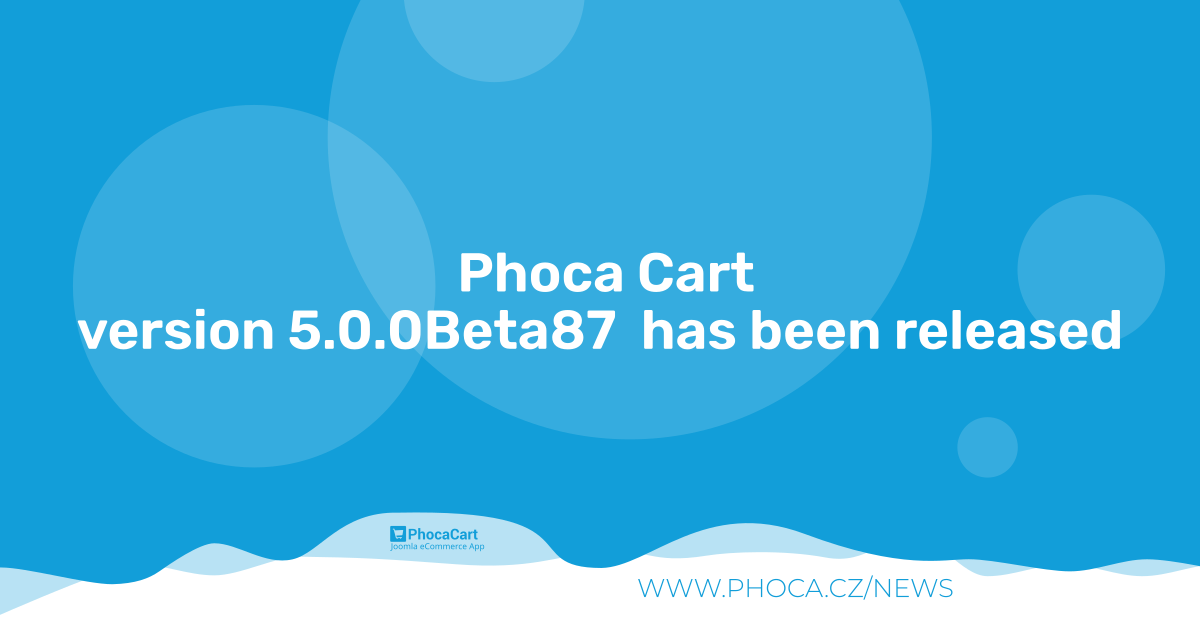
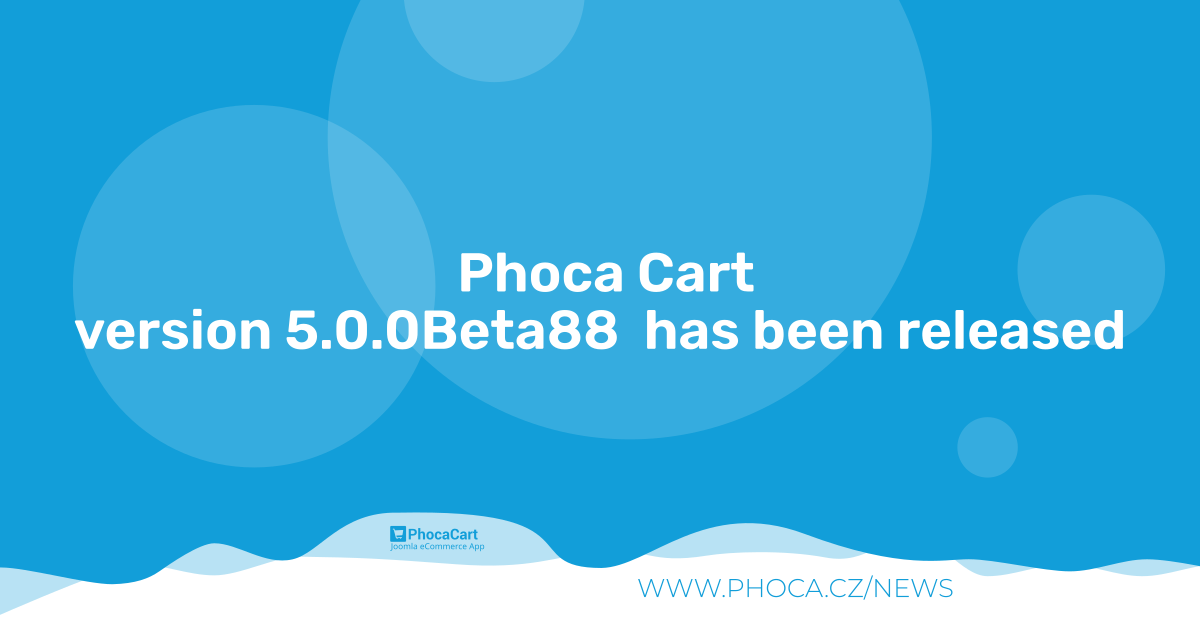
5.0.0Beta88

Changed region(s): [[0.0617, 0.4825, 0.9558, 0.573]]

diff --git a/media/css/main.css b/media/css/main.css
@@ -2513,7 +2513,12 @@ form.ph-form-placeholder input.form-control:focus,
     box-shadow: 0px 0px 0px 2px transparent;
 }
 
-/* .ph-form-input-box input:not(:focus):valid ~ label */
+/* For pasting values with doubleclick, mouse wheel click, etc:
+.ph-form-input-box input:not(:placeholder-shown) ~ label,
+ - in this case the html needs to include e.g. placeholder=" "
+*/
+
+/*.ph-form-input-box input:not(:focus):valid ~ label,*/
 .ph-form-input-box select ~ label,
 .ph-form-input-box input.form-control:focus ~ label,
 .ph-form-input-box input.form-control:not([value='']) ~ label {

diff --git a/admin/models/phocacartitem.php b/admin/models/phocacartitem.php
@@ -381,26 +381,28 @@ class PhocaCartCpModelPhocaCartItem extends AdminModel
 		$user = Factory::getUser();
 
 		// ALIAS
+
 		if (in_array($input->get('task'), array('apply', 'save', 'save2new')) && (!isset($data['id']) || (int) $data['id'] == 0)) {
+
 			if ($data['alias'] == null) {
-				if (Factory::getConfig()->get('unicodeslugs') == 1) {
-					$data['alias'] = OutputFilter::stringURLUnicodeSlug($data['title']);
-				} else {
-					$data['alias'] = OutputFilter::stringURLSafe($data['title']);
-				}
+                if (Factory::getConfig()->get('unicodeslugs') == 1) {
+                    $data['alias'] = OutputFilter::stringURLUnicodeSlug($data['title']);
+                } else {
+                    $data['alias'] = OutputFilter::stringURLSafe($data['title']);
+                }
+            }
 
+            if ($table->load(array('alias' => $data['alias']))){
+                $msg = Text::_('COM_PHOCACART_SAVE_WARNING');
+            }
 
-				if ($table->load(array('alias' => $data['alias']))){
-					$msg = Text::_('COM_PHOCACART_SAVE_WARNING');
-				}
+            list($title, $alias) = $this->generateNewTitle(0, $data['alias'], $data['title']);
+            $data['alias'] = $alias;
 
-				list($title, $alias) = $this->generateNewTitle(0, $data['alias'], $data['title']);
-				$data['alias'] = $alias;
+            if (isset($msg)) {
+                Factory::getApplication()->enqueueMessage($msg, 'warning');
+            }
 
-				if (isset($msg)) {
-					Factory::getApplication()->enqueueMessage($msg, 'warning');
-				}
-			}
 		} else if ($table->load(array('alias' => $data['alias'])) && ($table->getId() != $data['id'] || $data['id'] == 0)) {
 			$this->setError(Text::_('COM_PHOCACART_ERROR_ITEM_UNIQUE_ALIAS'));
 			return false;

diff --git a/admin/models/phocacartcategory.php b/admin/models/phocacartcategory.php
@@ -190,18 +190,18 @@ class PhocaCartCpModelPhocacartCategory extends AdminModel
 		// ALIAS
 		if (in_array($input->get('task'), array('apply', 'save', 'save2new')) && (!isset($data['id']) || (int) $data['id'] == 0)) {
 			if ($data['alias'] == null) {
-				if (Factory::getConfig()->get('unicodeslugs') == 1) {
-					$data['alias'] = OutputFilter::stringURLUnicodeSlug($data['title']);
-				} else {
-					$data['alias'] = OutputFilter::stringURLSafe($data['title']);
-				}
+                if (Factory::getConfig()->get('unicodeslugs') == 1) {
+                    $data['alias'] = OutputFilter::stringURLUnicodeSlug($data['title']);
+                } else {
+                    $data['alias'] = OutputFilter::stringURLSafe($data['title']);
+                }
+            }
+            list($title, $alias) = $this->generateNewTitle($data['parent_id'], $data['alias'], $data['title']);
+            if ($data['alias'] != $alias) {
+                Factory::getApplication()->enqueueMessage(Text::_('COM_PHOCACART_SAVE_WARNING'), 'warning');
+                $data['alias'] = $alias;
+            }
 
-				list($title, $alias) = $this->generateNewTitle($data['parent_id'], $data['alias'], $data['title']);
-				if ($data['alias'] != $alias) {
-					Factory::getApplication()->enqueueMessage(Text::_('COM_PHOCACART_SAVE_WARNING'), 'warning');
-					$data['alias'] = $alias;
-				}
-			}
 		} else if ($table->load(array('alias' => $data['alias'], 'parent_id' => $data['parent_id'])) && ($table->id != $data['id'] || $data['id'] == 0)) {
 			$this->setError(Text::_('COM_PHOCACART_ERROR_ITEM_UNIQUE_ALIAS'));
 			return false;

diff --git a/admin/models/phocacartsubmititem.php b/admin/models/phocacartsubmititem.php
@@ -228,19 +228,19 @@ class PhocaCartCpModelPhocaCartSubmititem extends AdminModel
 				} else {
 					$data['alias'] = OutputFilter::stringURLSafe($data['title']);
 				}
-
-
-				if ($table->load(array('alias' => $data['alias']))){
-					$msg = Text::_('COM_PHOCACART_SAVE_WARNING');
-				}
-
-				list($title, $alias) = $this->generateNewTitle(0, $data['alias'], $data['title']);
-				$data['alias'] = $alias;
-
-				if (isset($msg)) {
-					Factory::getApplication()->enqueueMessage($msg, 'warning');
-				}
 			}
+
+			if ($table->load(array('alias' => $data['alias']))){
+				$msg = Text::_('COM_PHOCACART_SAVE_WARNING');
+			}
+
+			list($title, $alias) = $this->generateNewTitle(0, $data['alias'], $data['title']);
+			$data['alias'] = $alias;
+
+			if (isset($msg)) {
+				Factory::getApplication()->enqueueMessage($msg, 'warning');
+			}
+
 		} else if ($table->load(array('alias' => $data['alias'])) && ($table->id != $data['id'] || $data['id'] == 0)) {
 			//$this->setError(Text::_('COM_PHOCACART_ERROR_ITEM_UNIQUE_ALIAS'));
 			//return false;

diff --git a/README.MD b/README.MD
@@ -132,7 +132,7 @@ Phoca Cart is e-commerce extension - powerful shopping cart for Joomla! CMS. Pho
 
 ## Version (Joomla! 5.x)
 
-5.0.0Beta87
+5.0.0Beta88
 
 
 
